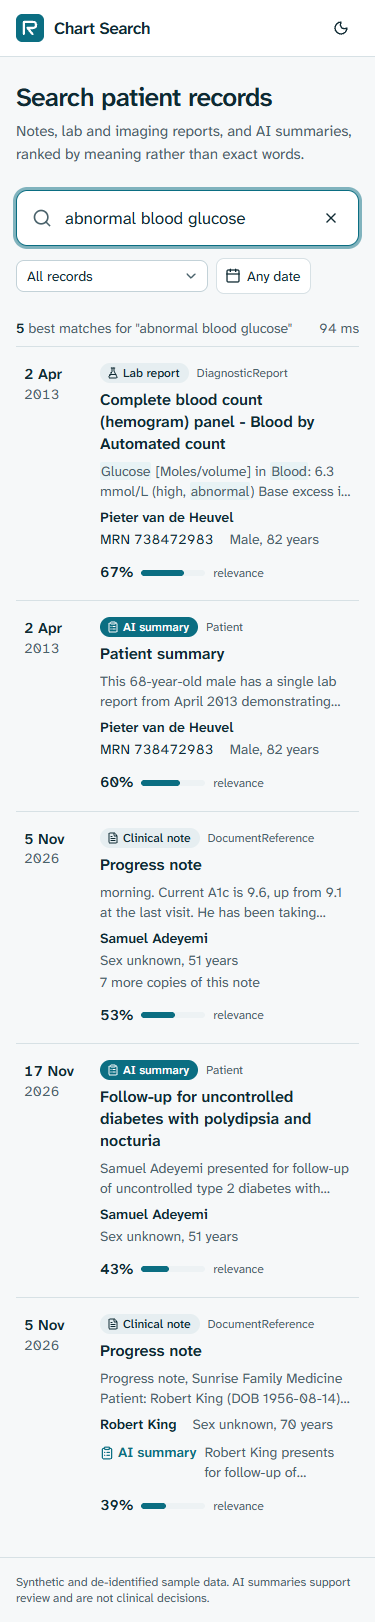
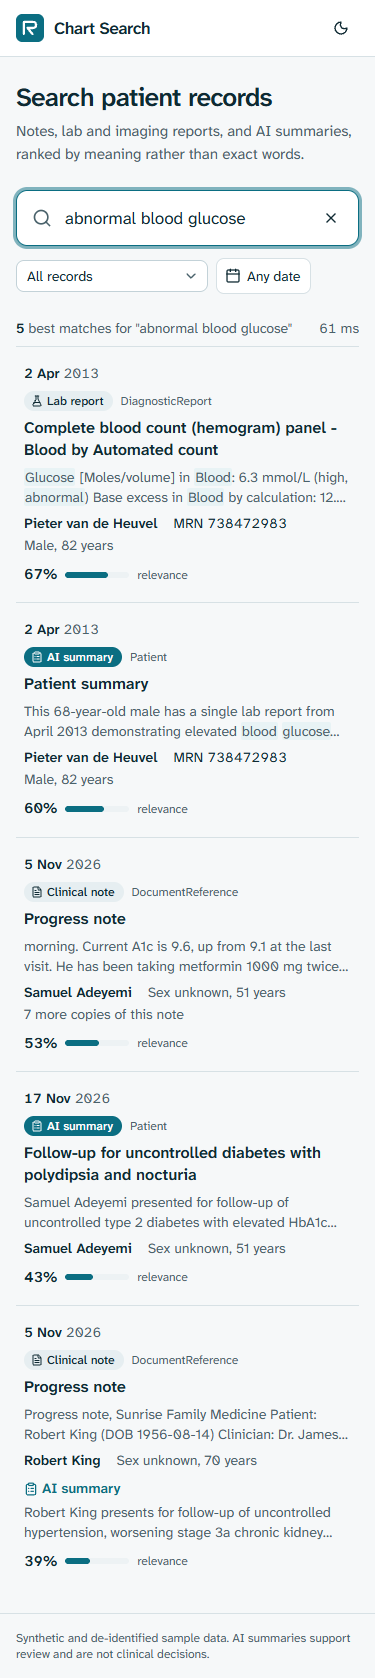
Update readme

Changed region(s): [[0.0293, 0.0, 0.968, 1.0], [0.8507, 0.185, 0.968, 0.2158]]

diff --git a/README.md b/README.md
@@ -408,7 +408,7 @@ pnpm exec playwright install chromium   # once, or point PW_BROWSER_PATH at an i
 pnpm e2e
 ```
 
-13 Playwright tests in `frontend/e2e/`, run against the real API and data. They fail on any browser console error.
+19 Playwright tests in `frontend/e2e/`, run against the real API and data. They fail on any browser console error.
 
 | Test | Checks |
 |---|---|
@@ -424,4 +424,5 @@ pnpm e2e
 | Service down | Error message and retry button |
 | Theme | Dark theme toggles and is remembered after reload |
 | Phone width | No sideways scrolling, full-width drawer |
+| Screen widths | 320, 375, 768, 1024, 1440 and 1920 px: no sideways scrolling on the page or inside the drawer, date picker fits on screen, drawer full width on phones and a side panel above 640 px |
 | Accessibility | axe-core scan (WCAG 2.2 AA rules): no serious or critical issues on results and drawer, light and dark |
